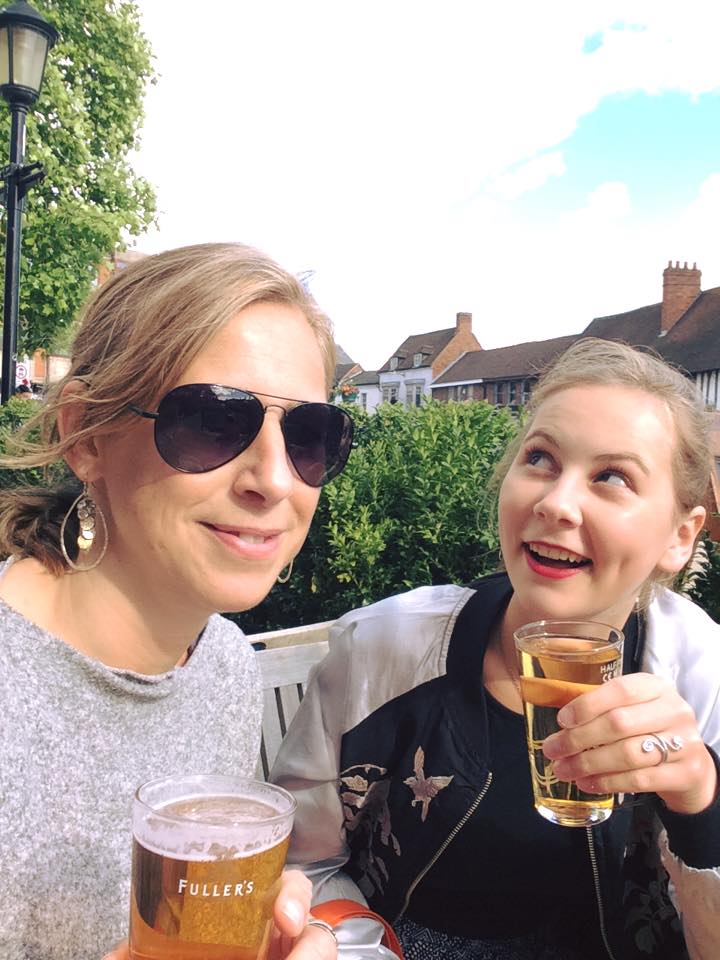
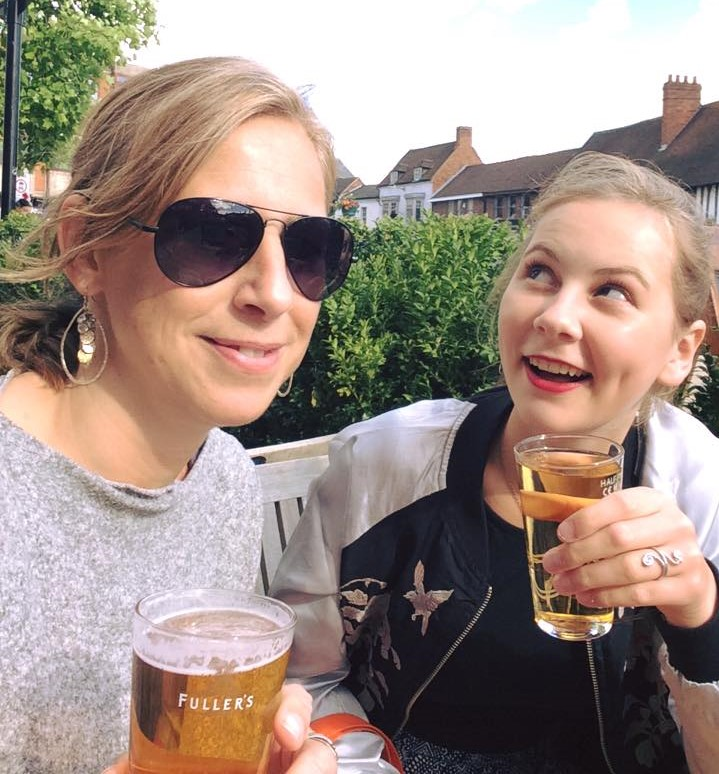
add content to about us page

diff --git a/om_oss.html b/om_oss.html
@@ -1,0 +1,68 @@
+<!DOCTYPE html>
+<html lang="en">
+<head>
+    <meta charset="UTF-8">
+    <meta http-equiv="X-UA-Compatible" content="IE=edge">
+    <meta name="viewport" content="width=device-width, initial-scale=1.0">
+    <link rel="stylesheet" href="./style.css">
+    <link rel="preconnect" href="https://fonts.googleapis.com">
+    <link rel="preconnect" href="https://fonts.gstatic.com" crossorigin>
+    <link href="https://fonts.googleapis.com/css2?family=Open+Sans&family=Open+Sans+Condensed:wght@300&family=Oswald:wght@200;400&family=Petit+Formal+Script&display=swap" rel="stylesheet">
+    
+    <script src="./components/header.js" type="text/javascript" async></script>
+    <script src="./components/footer.js" type="text/javascript" defer></script>
+    <title>Om oss</title>
+</head>
+<body>
+    <!-- top navigation =========================================================--> 
+    <header>
+        <header-component></header-component>
+    </header> 
+
+    <!-- Main section ==========================================================-->
+    <section>
+        <div class="main-container">
+            <article class="main-image about-image">
+                <h2 class="tagline">En trivselskapande verksamhet</h2>
+                <div class="intro-text">
+                    <h3>Vision</h3>
+                    <p>The Deer & Daisy, döpt efter Skånes landskapsdjur och -blomma, ska bli en 
+                        riktig klassisk Village Pub inspirerad av den traditionella engelska bypuben.
+                         Ett gemytligt värdshus med god mat och dryck, välkomnande miljö och härligt
+                         umgänge. Öppet året runt blir det en naturlig mötesplats för både besökare och 
+                         boende på Kivik. 
+                    </p>
+                    <p> Vi bygger upp verksamheten steg för steg från grunden. Fas ett var att 
+                        renovera och hyra ut det äldre huset på tomten som semesterbostad. Vi kallar
+                        det Gårdshuset och sedan sommaren 2020 kan man hyra det för kortare vistelser
+                        året om. Sommaren 2022 börjar vi servera Afternoon Tea i det som till slut ska 
+                        bli själva puben.
+                    </p>
+                </div>
+            </article>
+            
+            <!-- separator section =================================-->
+            <div class="separator">
+                <div class="line line-right">
+                    <hr>
+                </div>
+                <div class="deer">
+                    <img src="./resources/001-deer-shape.png" alt="icon of a deer jumping ahead">
+                </div>
+                <div class="line line-left">
+                    <hr>
+                </div>
+            </div>
+
+            <!-- presentation squares section ===================================-->
+            
+        </div>
+    </section>
+
+    <!-- footer ================================================================-->
+    <footer>
+        <footer-component></footer-component>
+    </footer>
+    <script src="https://kit.fontawesome.com/a101703e57.js" crossorigin="anonymous"></script>
+</body>
+</html>

diff --git a/style.css b/style.css
@@ -52,6 +52,10 @@ h2 {
 .tea-image {
     background-image: url('./resources/Afternoon-tea-inspiration.jpg');
 }
+.about-image {
+    background-image: url('./resources/about-image.jpg');
+    background-position: center;
+}
 .intro-text {
     display: flex;
     flex-direction: column;
@@ -248,3 +252,5 @@ iframe #form-heading-00000002-acc {
     font-family: 'Castellar', sans-serif;
     font-weight: 300;
 }
+
+/* about us page styles ================================*/
